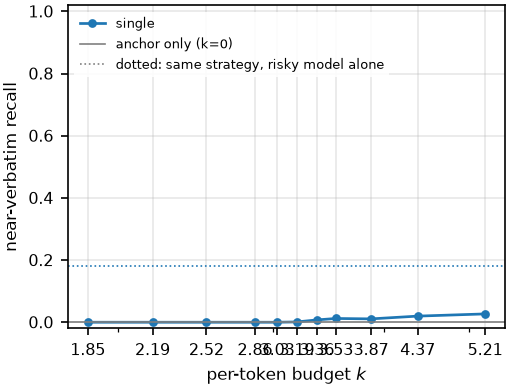
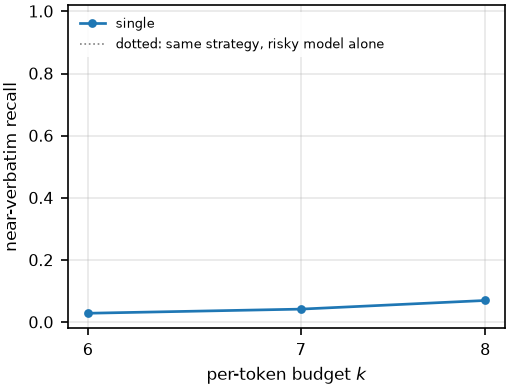
feat-084 scored in full: the two-value split was a gap in the anchors, not a property of the phenomenon
The extension moved nothing it could not move: onset 3.4522 unmoved, ratio 1.0266 unmoved, interval
lower end unmoved, upper end 1.405 -> 1.477, no-crossing 1.6% -> 0.0%.

Ranked by the words the adversary is handed, the eight pairs now read 7.5w:1.166, 7.5w:1.053,
9.5w:1.027, 13.9w:0.920, 13.9w:0.926, 14.1w:0.892, 14.6w:0.878, 15.0w:0.887 -- Spearman -0.946 at
exact p = 0.0013, STRENGTHENED from -0.919 at p = 0.007 over seven. A coincidence weakens when it
meets new data; this did the opposite, and the new point is the only one predicted before it was
measured (1.048 predicted, 1.027 measured).

Everything else recomputed at eight pairs and nothing reverses: the collapse spread is unchanged at
0.027, s(x) stays inside its 1.61x range, s(x) is now the best of four normalisers on the cv
(10.9% against 14.7/25.3/40.4), and feat-083's burstiness correlation is slightly MORE refuted
(-0.024 against +0.036). feat-083 is reported at its committed endpoint of seven with the eight-pair
value beside it.

Held to the addendum: no causal claim -- seed words is still 20x chars/token by construction -- and
which side of 1.053 the point landed on carries no information. Beside the ratio: this is the
weakest memoriser admitted (k=-1 recall 0.181) and its interval is the widest of the eight.

diff --git a/results/onset_prediction_granularity_gap.md b/results/onset_prediction_granularity_gap.md
@@ -226,3 +226,68 @@ Appendix~\ref{app:seed} commits to and that was applied to KL3M-1.7B this mornin
 extended to $k \in \{6.0, 7.0, 8.0\}$ and both grids are reported. The extension is upward, so it
 cannot move the onset or the lower end of the interval; what it can do is widen the upper end, and
 that is what will be reported.
+
+## The extension, and what eight pairs do to every number the seven produced
+
+The grid extension behaved exactly as the rule predicts and as KL3M-1.7B's did this morning: the
+onset is **unmoved** at $3.4522$, the ratio **unmoved** at $1.0266$, the lower end of the interval
+**unmoved** at $0.967$, the upper end widens from $1.405$ to $1.477$, and the no-crossing fraction
+goes $1.6\% \to 0.0\%$. Recall at the three new budgets is $0.029$, $0.042$, $0.070$.
+
+### The split was a gap in the anchors, not a property of the phenomenon
+
+```
+cross-pair, ranked by the words the adversary is handed
+     7.5 words   ratio 1.166   KL3M-1.7B
+     7.5 words   ratio 1.053   KL3M-520M
+     9.5 words   ratio 1.027   open-calm-1b     <- the new point, in the gap
+    13.9 words   ratio 0.920   Pleias-350M
+    13.9 words   ratio 0.926   Phi-3.5-mini
+    14.1 words   ratio 0.892   Comma-7B
+    14.6 words   ratio 0.878   Pleias-1.2B
+    15.0 words   ratio 0.887   TinyComma-1.8B
+   all pairs   n=8   Spearman -0.946   exact permutation p = 0.0013
+```
+
+The rank correlation **strengthens** from $-0.919$ ($p = 0.007$) at seven pairs to $-0.946$
+($p = 0.0013$) at eight. A coincidence weakens when it meets new data; this did the opposite, and
+the new point is the only one that was predicted before it was measured.
+
+### Every other number, recomputed at eight pairs
+
+| quantity | seven pairs | eight pairs |
+|---|---|---|
+| collapse spread, single, $k/s \in [0.7, 1.2]$ | $0.027$ | $0.027$ |
+| $s(x)$ range, nats per token | $1.61\times$ | $1.61\times$ (the new pair is inside it) |
+| onset ratio, mean and sd | --- | $0.969 \pm 0.096$, range $0.878$--$1.166$ |
+| normaliser cv: $s(x)$ / raw / $r$ / $k_{\mathrm{crit}}$ | --- | $10.9\%$ / $14.7\%$ / $25.3\%$ / $40.4\%$ |
+| normaliser spread: raw / $s(x)$ / $r$ | $0.0334$ / $0.0268$ / $0.0262$ | $0.0370$ / $0.0268$ / $0.0262$ |
+| burstiness $\rho$ (feat-083) | $+0.036$, $p = 0.96$ | $-0.024$, $p = 0.98$ |
+| cv(onset$/k_{\mathrm{crit}}$) against cv(onset$/s(x)$) | $0.434$ vs $0.115$ | $0.404$ vs $0.109$ |
+| Eq.~\eqref{eq:req} held-out error against a constant | constant wins | constant wins, $0.242$ against $0.377$ |
+
+Nothing reverses and the two things that move, move the right way: $s(x)$ is now the best of **four**
+normalisers on the cv, and the burstiness correlation that feat-083 refuted at seven pairs is
+slightly *more* refuted at eight. **feat-083 was scored at its committed endpoint of seven pairs and
+that is what it reports; the eight-pair value is recorded here beside it, as the order-predictor work
+records its own five-, six- and seven-family readings.**
+
+### What this does and does not license, held to the addendum
+
+It licenses replacing "the ratio takes two values" with "the ratio falls with the words the
+adversary is handed", on eight pairs whose rank correlation is $-0.946$ --- and it licenses saying
+the gap in the anchors, not the phenomenon, is what made it look like two groups.
+
+It does **not** license a causal claim. Seed words is still $20 \times$ characters per token by
+construction and confounded with everything else granularity determines, exactly as
+Appendix~\ref{app:seed} says; the new pair is one more observational point, not an intervention. The
+five seed interventions remain the only evidence that moves the variable directly, and they still do
+not close the gap between the families on their own. And per the addendum committed before the
+numbers existed, the fact that $1.027$ sits inside the interpolation band rather than just above it
+carries no information and is not reported as if it did.
+
+Two facts belong beside the ratio and are not softenings. This is the **weakest memoriser** admitted
+($k=-1$ recall $0.181$ against $0.41$--$0.91$; $s_r/s_s = 0.124$, the second highest of the eight),
+which is the second pre-registered confound firing. And its bootstrap interval, $[0.967, 1.477]$, is
+the widest of the eight and does not exclude the coarse family's band --- the point estimate is what
+falls between the groups, and the interval is consistent with a good deal else.
